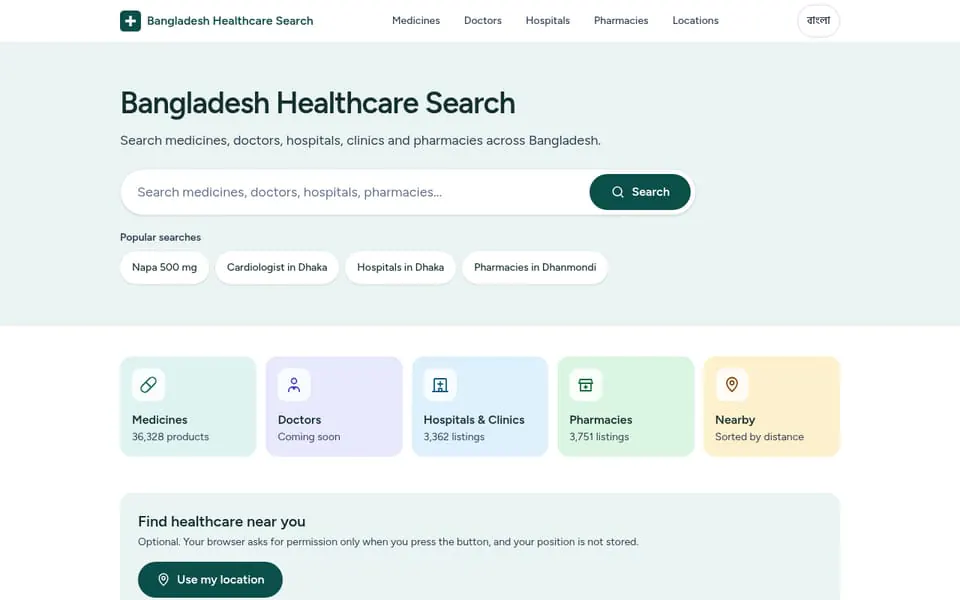
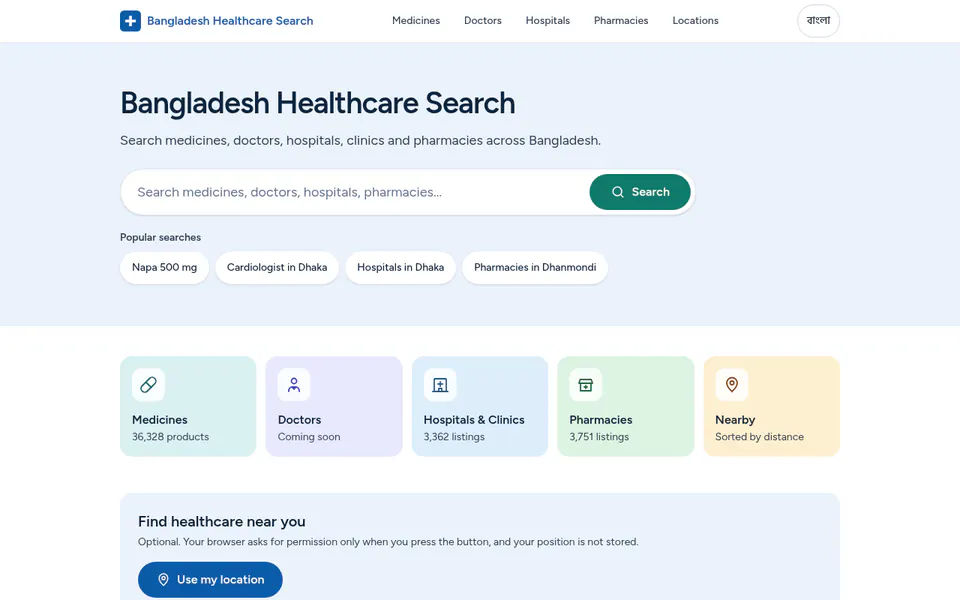
chore: refresh Bangladesh Healthcare Search screenshot (Clinical Blue) and details
New screenshot of the live site's Clinical Blue design (no dark mode on that
site, so a single image). Adds the now-live 25 bilingual guides and /emergency
page to its features, and notes the English/Bangla versions.

diff --git a/data/projects.ts b/data/projects.ts
@@ -92,7 +92,7 @@ export const projects: Project[] = [
     overview: [
       "Bangladesh Healthcare Search is a free directory for finding medicines, hospitals, clinics and pharmacies across Bangladesh. Visitors can search by name or location, browse by specialty and popular locations, and use an optional nearby lookup that asks for browser permission only when the button is pressed and does not store the position.",
       "The directory lists 36,328 medicine products from the DGDA register of drug products, plus 3,362 hospital and clinic listings and 3,751 pharmacy listings. Hospital, clinic and pharmacy data is community-mapped OpenStreetMap data and has not been verified, so the site tells visitors to call ahead.",
-      "Area boundaries come from geoBoundaries. Doctor profiles are shown only from identified, verifiable sources, and none are listed yet. The site provides general medicine information only and is not medical advice.",
+      "Area boundaries come from geoBoundaries. Doctor profiles are shown only from identified, verifiable sources, and none are listed yet. The site is available in English and Bangla, and provides general medicine information only, not medical advice.",
     ],
     features: [
       "Search 36,328 DGDA-registered medicine products",
@@ -100,6 +100,8 @@ export const projects: Project[] = [
       "Browse by specialty and by location",
       "Optional nearby search, sorted by distance; location is used only when you press the button",
       "Saved items",
+      "25 guides on medicines, DGDA registration and healthcare, in English and Bangla",
+      "Emergency page: Bangladesh's 999 number and hospitals that list emergency services, by division",
       "Data sources stated on the site: DGDA, OpenStreetMap contributors and geoBoundaries",
     ],
     stack: ["Next.js", "TypeScript", "Node.js data pipelines"],
